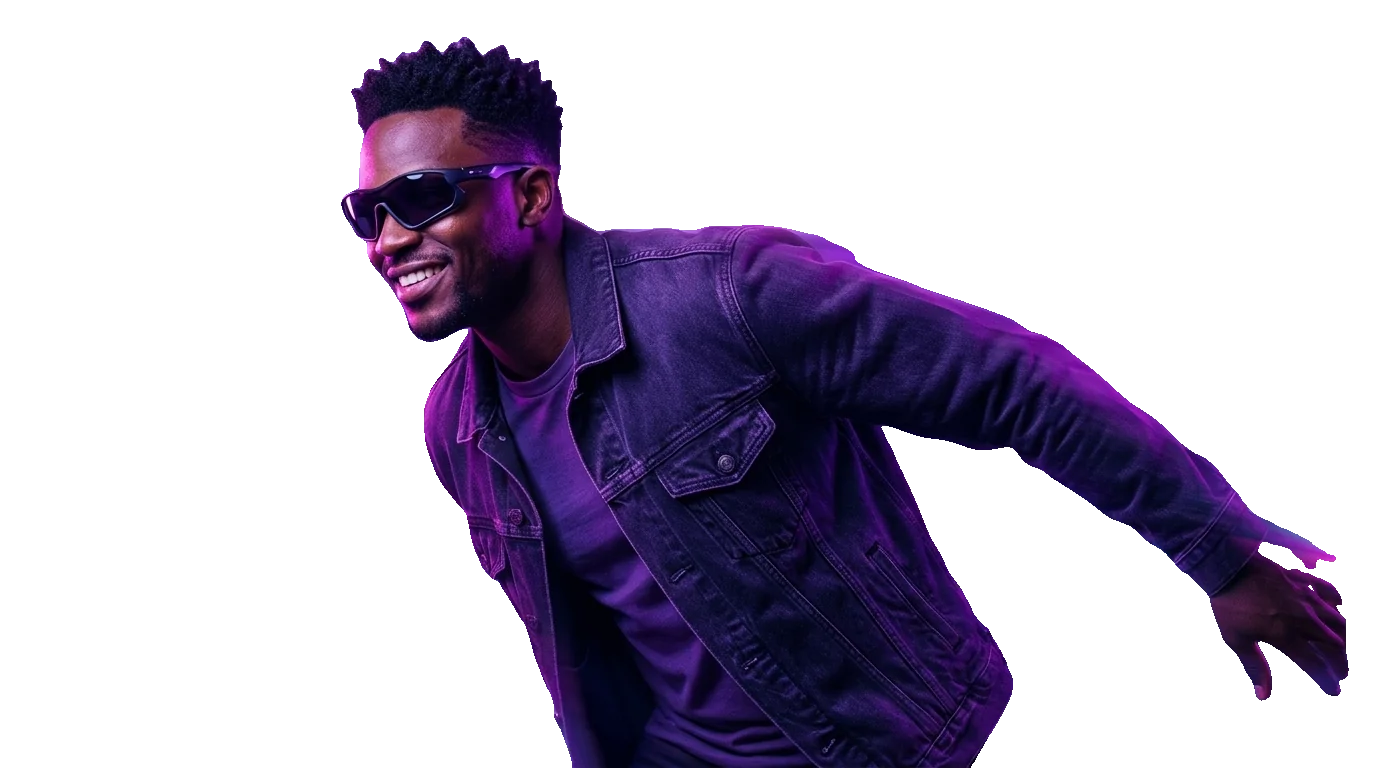
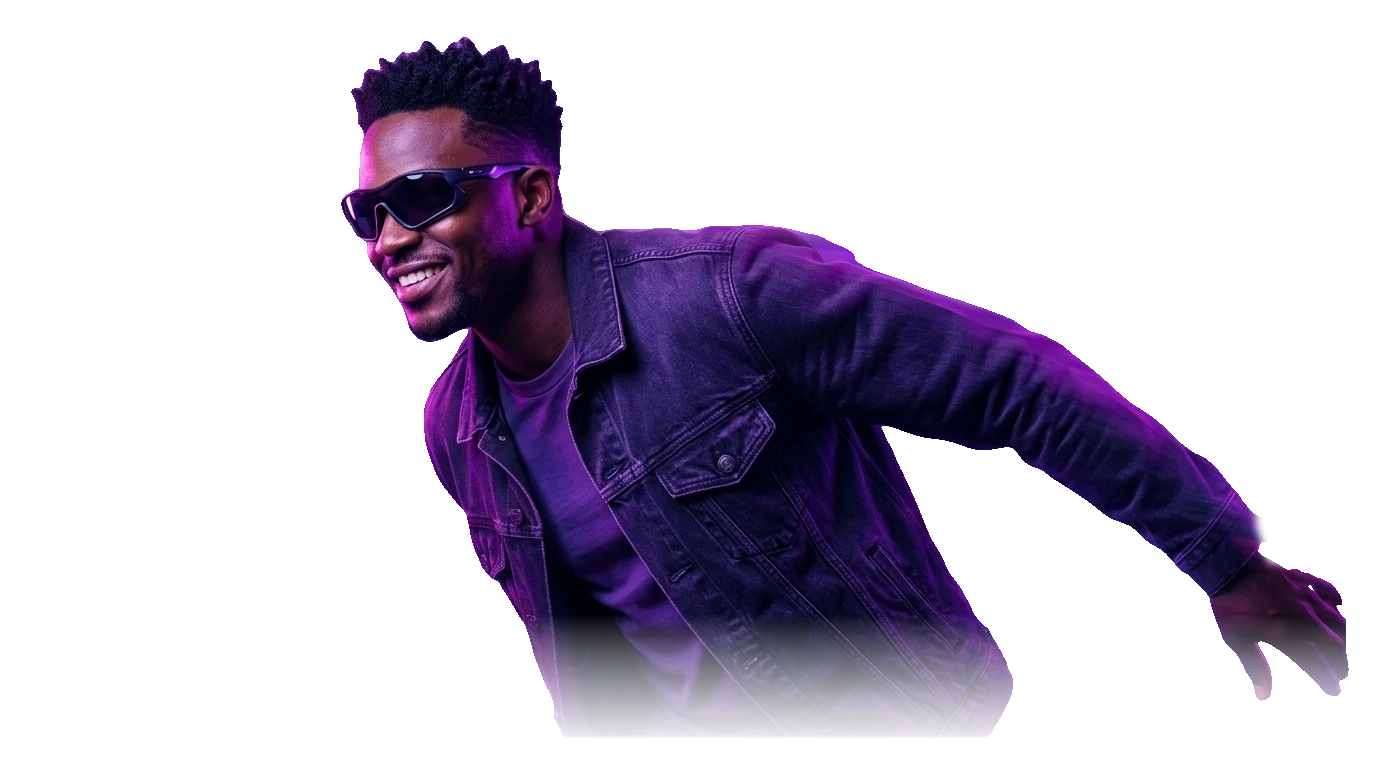
corrigi-Parala

Changed region(s): [[0.375, 0.8125, 0.75, 1.0], [0.875, 0.8125, 1.0, 0.9062], [0.9062, 0.6562, 0.9688, 0.75]]

diff --git a/assets/app.js b/assets/app.js
@@ -141,41 +141,54 @@
   $("busca").addEventListener("input", function (e) { termo = e.target.value; render(); });
   render();
 
-  // ---- paralaxe da capa ----
+  // ---- paralaxe da capa: só o personagem se move, com desfoque na rolagem ----
   (function () {
     var hero = $("hero"), foto = $("hero-photo"), txt = document.querySelector(".hero-inner"), hint = $("scroll-hint");
     if (!hero || !foto) return;
     var reduz = window.matchMedia("(prefers-reduced-motion: reduce)").matches;
     var clamp = function (x) { return Math.max(0, Math.min(1, x)); };
     var ease = function (x) { return 1 - Math.pow(1 - x, 3); };
+    var ultimoY = window.scrollY, ultimoT = performance.now(), velBlur = 0, rodando = false;
+
     function quadro() {
+      var agora = performance.now();
+      var dy = Math.abs(window.scrollY - ultimoY), dt = Math.max(16, agora - ultimoT);
+      ultimoY = window.scrollY; ultimoT = agora;
+      // desfoque de movimento: cresce com a velocidade da rolagem e some quando para
+      velBlur = Math.max(velBlur * 0.86, Math.min(10, (dy / dt) * 6));
+
       var total = hero.offsetHeight - window.innerHeight;
       var p = reduz ? 1 : clamp(-hero.getBoundingClientRect().top / (total || 1));
       var a = ease(clamp(p / 0.45));          // fase 1: o personagem chega
       var b = ease(clamp((p - 0.45) / 0.45)); // fase 2: vai para o segundo plano
+      var blurBase, brilho;
       if (p < 0.45) {
         foto.style.zIndex = 2;
         foto.style.opacity = a;
         foto.style.transform = "translateX(" + (60 * (1 - a)) + "%) scale(" + (1.08 - 0.08 * a) + ")";
-        foto.style.filter = "none";
+        blurBase = 14 * (1 - a); brilho = 1;
         txt.style.opacity = 1 - a;
+        txt.style.filter = "blur(" + (8 * a) + "px)";
         txt.style.transform = "translateY(" + (-30 * a) + "px)";
       } else {
         foto.style.zIndex = 0;
         foto.style.opacity = 1 - 0.55 * b;
         foto.style.transform = "translateY(" + (4 * b) + "%) scale(" + (1 - 0.22 * b) + ")";
-        foto.style.filter = "blur(" + (5 * b) + "px) brightness(" + (1 - 0.5 * b) + ")";
+        blurBase = 8 * b; brilho = 1 - 0.5 * b;
         txt.style.opacity = b;
+        txt.style.filter = "blur(" + (8 * (1 - b)) + "px)";
         txt.style.transform = "translateY(" + (30 * (1 - b)) + "px)";
       }
+      var blur = reduz ? blurBase : blurBase + velBlur;
+      foto.style.filter = "blur(" + blur.toFixed(2) + "px) brightness(" + brilho.toFixed(3) + ")";
       if (hint) hint.style.opacity = p > 0.05 ? 0 : 1;
+
+      if (velBlur > 0.05 && !reduz) { requestAnimationFrame(quadro); } else { velBlur = 0; rodando = false; }
     }
-    var pedido = false;
-    window.addEventListener("scroll", function () {
-      if (!pedido) { pedido = true; requestAnimationFrame(function () { quadro(); pedido = false; }); }
-    }, { passive: true });
-    window.addEventListener("resize", quadro);
-    quadro();
+    function pedir() { if (!rodando) { rodando = true; requestAnimationFrame(quadro); } }
+    window.addEventListener("scroll", pedir, { passive: true });
+    window.addEventListener("resize", pedir);
+    rodando = true; quadro();
   })();
 
   // ---- entrada suave ----

diff --git a/assets/style.css b/assets/style.css
@@ -62,16 +62,6 @@ h1, h2, h3 { font-weight: 500; letter-spacing: -.01em; margin: 0; }
   padding: clamp(150px, 22vh, 210px) 20px 60px;
   isolation: isolate;
 }
-.hero-bg {
-  position: absolute; inset: 0; z-index: -1; pointer-events: none;
-  mix-blend-mode: screen;
-}
-.hero-bg img {
-  width: 100%; height: 100%; object-fit: cover; object-position: 50% 40%;
-  opacity: .6;
-  -webkit-mask-image: linear-gradient(#000 60%, transparent 100%);
-          mask-image: linear-gradient(#000 60%, transparent 100%);
-}
 .hero-photo {
   position: absolute; inset: 0; z-index: 2; pointer-events: none;
   will-change: transform, opacity, filter;
@@ -79,7 +69,7 @@ h1, h2, h3 { font-weight: 500; letter-spacing: -.01em; margin: 0; }
 }
 .hero-photo img {
   width: 100%; height: 100%; object-fit: cover; object-position: 50% 40%;
-  filter: drop-shadow(0 30px 60px rgba(0,0,0,.55));
+  
 }
 .hero-inner { position: relative; z-index: 1; will-change: opacity, transform; }
 .scroll-hint {
@@ -87,7 +77,7 @@ h1, h2, h3 { font-weight: 500; letter-spacing: -.01em; margin: 0; }
   font-size: 11px; letter-spacing: .12em; text-transform: uppercase; color: rgba(255,255,255,.7);
 }
 .hero-fog {
-  position: absolute; inset: 0; z-index: -3; opacity: .7;
+  position: absolute; inset: 0; z-index: -3;
   background: linear-gradient(#08060d 0%, #08060d 6%, rgba(106, 18, 176, .18) 10%, rgba(106, 18, 176, .45) 24%, #08060d 60%);
 }
 .hero-grid {
@@ -304,7 +294,7 @@ h1, h2, h3 { font-weight: 500; letter-spacing: -.01em; margin: 0; }
   .offer-cta { text-align: center; }
   .steps { grid-template-columns: 1fr; }
   .hero { height: 200vh; }
-  .hero-photo img, .hero-bg img { object-position: 35% 40%; }
+  .hero-photo img { object-position: 35% 40%; }
 }
 @media (prefers-reduced-motion: reduce) {
   .marquee-track, .dot { animation: none; }

diff --git a/index.html b/index.html
@@ -8,7 +8,7 @@
   <meta name="description" content="Painel pessoal de vagas de Diretor de Arte Jr e Designer Gráfico, atualizado todo dia.">
   <link rel="preconnect" href="https://api.fontshare.com">
   <link href="https://api.fontshare.com/v2/css?f[]=clash-grotesk@400,500,600&display=swap" rel="stylesheet">
-  <link rel="stylesheet" href="assets/style.css?v=4">
+  <link rel="stylesheet" href="assets/style.css?v=5">
 </head>
 <body>
 
@@ -29,8 +29,7 @@
     <!-- HERO -->
     <section class="hero" id="hero">
      <div class="hero-sticky">
-      <div class="hero-bg" aria-hidden="true"><img src="assets/hero-fundo.jpg" alt=""></div>
-      <div class="hero-photo" id="hero-photo" aria-hidden="true"><img src="assets/hero-pessoa.webp" alt=""></div>
+      <div class="hero-photo" id="hero-photo" aria-hidden="true"><img src="assets/hero-pessoa.webp?v=5" alt=""></div>
       <div class="hero-grid" aria-hidden="true"></div>
       <div class="hero-fog" aria-hidden="true"></div>
       <div class="hero-arc" aria-hidden="true"></div>
@@ -139,7 +138,7 @@
     <span>Fonte: LinkedIn</span>
   </footer>
 
-  <script src="data/vagas.js?v=4"></script>
-  <script src="assets/app.js?v=4"></script>
+  <script src="data/vagas.js?v=5"></script>
+  <script src="assets/app.js?v=5"></script>
 </body>
 </html>
